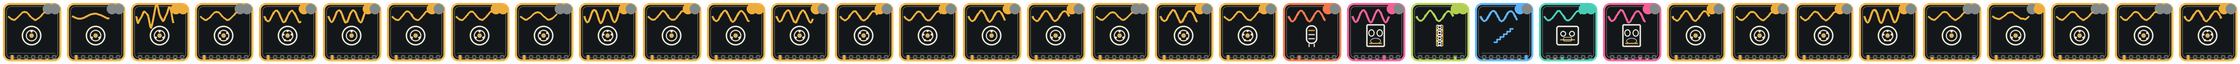
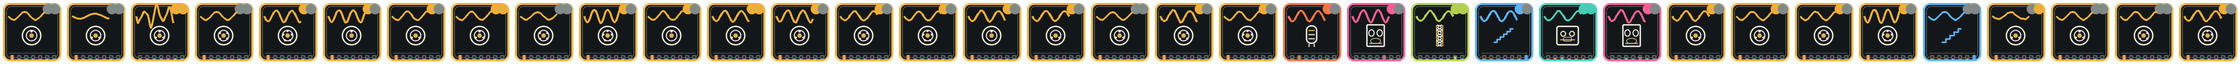
Explain every factory preset, and keep the guide honest
The preset bank grew to thirty-five with nothing but the preset box to say what
each one is for. docs/presets.md now names all of them by family - the two
references, bus and master glue, drums, vocals, bass, amps, worn media, and the
effects-forward set - with what each one sets, plus what a preset cannot carry
and how to add another.

check_presets.py reads that guide back: exactly one row per preset, so a new
preset cannot ship without an explanation. Broken Bits also stops stating the
J37 alongside the digital machine, which left it half tape and made its own
name a compromise.

Generated with Codebuff 🤖

diff --git a/tests/presets/check_presets.py b/tests/presets/check_presets.py
@@ -42,6 +42,8 @@ What it checks now, against the JSON rather than a C++ table:
     turn into the sentinel, and the debug audit would then fail on it)
   * every registered parameter is either set by some preset or listed in the
     C++ intentionallyNotPresettable set, and the two lists are compared
+  * the guide in docs/presets.md has exactly one row per preset, so a preset that
+    ships without an explanation fails here
   * the two extremes mean what their names say. MAXIMUM is the ceiling of every
     other preset - no preset drives a parameter past it, which is what makes it
     "everything turned up" - and MINIMUM is a passthrough: the machine lists at
@@ -229,6 +231,21 @@ for key, value in floor.items():
         problems.append("minimum.json sets \"%s\" to %s where a transparent signal needs "
                         "%s - it is a null test, not the bottom of the range"
                         % (key, value, expected))
+
+# ---------------------------------------------------------------------------
+# 5. The guide that explains them.
+# ---------------------------------------------------------------------------
+# A preset nobody can explain is a preset nobody uses, and the doc is the only
+# place that says what each one is FOR - the JSON can only say what it sets.
+GUIDE = os.path.join(ROOT, "docs", "presets.md")
+if not os.path.exists(GUIDE):
+    problems.append("docs/presets.md is missing; it explains what every factory preset is for")
+else:
+    guide = read(GUIDE)
+    for label in names:
+        if guide.count("| **%s** |" % label) != 1:
+            problems.append("docs/presets.md explains \"%s\" %d time(s); it needs exactly one row"
+                            % (label, guide.count("| **%s** |" % label)))
 
 # ---------------------------------------------------------------------------
 if problems:

diff --git a/docs/presets.md b/docs/presets.md
@@ -1,0 +1,122 @@
+# Factory presets
+
+Thirty-five presets ship in `Source/Presets/Factory/`, each one a complete machine state. A
+preset replaces the whole panel in a single undoable step: every control it does not name stays
+at its neutral value rather than at whatever the last session left there, because every file
+states all 139 preset parameters.
+
+They are intended as starting points, not as finished masters - each names the job it was
+written for and the stages it leans on, so you can hear what a page does before you touch it.
+
+| | What it is for |
+|---|---|
+| **Minimum** | A null test: the signal comes out as it went in. |
+| **Maximum** | Every parameter at the top of its range - a demo of the machine's ceiling, not a mix. |
+| **Default** | The starting state an empty instance exposes: J37 at 15 ips, modest drive, real hiss. |
+
+**Minimum** is the one preset that must not process. Every machine list sits on `Off`, every
+amount is at zero, the filters are open (20 Hz to 20 kHz) and switched off, the compressor is
+1:1 at 0 dB, and only the controls whose *centre* means "no change" keep a centre - a stereo
+width of 0 is mono, and a tone of 0 is a tilt. If it changes what you hear, it is a bug;
+`tests/presets/check_presets.py` compares it against that transparent table so the mistake
+cannot come back.
+
+**Maximum** is the opposite contract: it may never sit below another factory preset on any
+amount, so it is the ceiling of the bank rather than one more loud preset. It does leave
+BYPASS, DELTA and POLARITY alone - a switch is not an amount.
+
+## Bus, master and glue
+
+| Preset | What it is for | What it sets |
+|---|---|---|
+| **Gentle Warmth** | The first tape pass on a mix that is already right. | J37 at 15 ips, DRIVE 28 %, MIX 65 %, SUB-FUND 15 %, input -3 dB; hiss 15 %. |
+| **Bus Glue Tape** | Glue a drum bus or a full mix without hearing the tape. | Ampex 456, DRIVE 62 %, MIX 100 %, TONE 66 %, CHAR 62 %, 2x oversampling, a touch of WEAR and MECHANICS, transient ATK +0.1 at 35 %. |
+| **Clean Glue** | Transparent glue where the low end must stay tight. | Chrome at 30 ips, DRIVE 22 %, MIX 45 %, input -6 dB, both filters off. |
+| **Tight Bus** | Shorten a bus that smears; keep the front and lose the tail. | J37, MIX 55 %, transient SUS -0.45 with ATK +0.25 at 70 %, input +0.5 dB. |
+| **Wide Master** | Open the sides of a finished master. | J37, MIX 55 %, WIDTH 62 %, out HIGH +1.5 dB, SUB-FUND 12 %. |
+| **Master Bounce** | The sound of a mix bounced to tape and back. | J37 at 15 ips, 4x oversampling, DRIVE 40 %, DIST 30 %, ping-pong 30 %, transient 40 %. |
+| **Master Safety** | A master-bus setting that cannot hurt the programme. | Chrome at 30 ips, 4x oversampling, DRIVE 25 %, DIST 5 %, wow 5 %/flutter 7 %, no SUB-FUND. |
+| **Ferric Master** | The 456-era sheen on a finished master. | RTM SM911, DRIVE 34 %, out HIGH +0.5 dB, light WEAR. |
+| **Bright Air Tape** | Tape character on a piano or a mix that must stay open. | Studer A800 at 30 ips, DRIVE 55 %, TONE 68 %, in HIGH +2 dB, WIDTH 58 %, output -0.5 dB. |
+
+## Drums
+
+| Preset | What it is for | What it sets |
+|---|---|---|
+| **Drum Slam** | Drums through a hot machine. | Studer A800 at 30 ips, 4x oversampling, DRIVE 75 %, DIST 18 %, transient ATK +0.55 / SUS -0.3 at 80 %, input MID -2 dB and HIGH +1.5 dB. |
+| **Drum Room Warm** | Add size without reverb-mush. | Ampex 456 at 7.5 ips, DRIVE 55 %, REVERB 22 %, ping-pong 20 %, transient 70 % with SUS +0.25, out LOW +1.5 dB. |
+| **Transient Punch** | Make a close drum sound hit harder. | J37, MIX 65 %, transient ATK +0.6 / SUS -0.2 at 85 %, input HIGH +0.5 dB, hiss 10 %. |
+| **Soft Touch** | Take the click off a bright kit. | Transient ATK -0.55 / SUS +0.15 at 75 %, DRIVE 32 %, MIX 60 %, TONE 42 %, noise 2 %. |
+
+## Vocals
+
+| Preset | What it is for | What it sets |
+|---|---|---|
+| **Vocal Rail** | A vocal that sits forward without EQ surgery. | Vocal voicing, J37 at MIX 70 %, input EQ LOW -1.5 / MID +2 / HIGH +2.5 dB, transient ATK +0.35 / SUS -0.15 at 60 %. |
+| **Vocal Presence** | De-ess and lift a vocal in one step. | Studer A800, PRESENCE 70 %, out HIGH +2 dB, compressor -20 dB at 3.5:1 with 70 % MIX, de-esser 50 %, dynamic EQ 40 %. |
+
+## Bass
+
+| Preset | What it is for | What it sets |
+|---|---|---|
+| **Bass Weight** | Add the octave-below weight a DI bass lacks. | Studer A800 at 30 ips, 4x oversampling, SUB-FUND 65 %, in LOW +4 dB, out LOW +1 dB, DRIVE 48 %, SUS +0.2 at 40 %. |
+| **Bass Console** | A bass recorded through a console rather than a plugin chain. | Ampex 456, DRIVE 50 %, in HP 32 Hz, out LOW +2.5 dB, compressor -24 dB at 3:1 with 80 % MIX, SAG 30 %. |
+
+## Guitar: valves, amps and transformers
+
+These three blend saturation principles rather than running one machine: the SOURCE knobs
+share the stage, so the amp, the transformer and the cassette each contribute their own
+nonlinearity.
+
+| Preset | What it is for | What it sets |
+|---|---|---|
+| **British Valve** | The EL34 midrange push on a DI or a reamp. | EL34 valve 77 % + Marshall Plexi + cassette 11 %, DRIVE 55 %, DIST 30 %, in LOW -1.5 / MID -1 dB. |
+| **Plexi Bite** | A hard, bright rhythm guitar. | Marshall Plexi 93 %, 2x oversampling, DRIVE 72 %, DIST 38 %, CHAR 68 %, out HIGH +2 dB, filters off. |
+| **Iron Bloom** | Iron and a Vox-style chime on a clean part. | Cinemag transformer 68 % + Vox AC30 16 %, DRIVE 48 %, in LOW +3 dB, WIDTH 60 %, DIST 34 %. |
+
+## Worn media, radio and lo-fi
+
+| Preset | What it is for | What it sets |
+|---|---|---|
+| **Vintage Lo-Fi** | An old record, not a broken one. | J37 at 7.5 ips, wow 22 %/flutter 28 %, VINYL 25 %, DIST 22 %, WEAR 20 %/MECHANICS 18 %, hiss 45 %. |
+| **Wobbly Cassette** | A cassette that has been in a drawer. | Cassette voicing at 7.5 ips, wow 30 %/flutter 34 %, WEAR 28 %/MECHANICS 30 %, VINYL 30 %, hiss 50 %. |
+| **Lo-Fi Radio** | A small speaker in the next room. | Chrome at 7.5 ips, TONE 28 %, WIDTH 35 %, hiss 55 %, VINYL 45 %, DIST 30 %, input +4 dB and output -4 dB. |
+| **Shellac Radio** | A 78 through a valve set. | Shellac 78 print at VINYL 85 %, hiss 60 %, WIDTH 25 %, wow 30 %, EL34 drive 62 %, output -3 dB. |
+| **Dubplate Dub** | A dub plate with the delay and the wear that come with it. | Dubplate print at VINYL 70 %, delay 220 ms at 42 % feedback, REVERB 22 %, WEAR 22 %/MECHANICS 20 %. |
+| **12-bit Bounce** | The sampler that defined a decade. | 12-bit digital stage, no oversampling, DRIVE 52 %, DIST 15 %, delay 125 ms at 35 %, output -2 dB. |
+| **Saturated Crunch** | Deliberate overload. | Ampex 456 at 30 ips, 4x oversampling, DRIVE 85 %, DIST 35 %, input +3 dB, out HIGH +2 dB. |
+| **Mix Saturation** | Audible saturation that still holds a mix together. | Ampex 456, 4x oversampling, DRIVE 68 %, DIST 25 %, 2+3 track layout, WIDTH 40 %, out LOW -0.5 dB. |
+
+## Effects-forward
+
+| Preset | What it is for | What it sets |
+|---|---|---|
+| **Fuzz Stack** | A fuzz pedal in front of a driven machine. | 811 tape, DRIVE 85 %, CHAR 85 %, rack OVERDRIVE 50 % + FUZZ 90 % + WAVEFOLDER 35 %, SAG 25 %, compressor 4:1 at -22 dB with 55 % MIX. |
+| **Broken Bits** | Digital destruction with no tape in the path. | Sample-hold machine (tape `Off`), BITCRUSHER 85 %, RATE CRUSHER 70 %, RING MOD 25 %, LO-FI mode, output -2 dB. |
+| **Wide Chorus** | Width from modulation rather than from EQ. | CHORUS 75 % + PHASER 30 %, WIDTH 90 %, wow 40 %/flutter 35 %, MIX 85 %. |
+| **Dub Echo** | A dub delay built from the machine's own echo. | BBD delay 240 ms at 65 % feedback, ping-pong 100 %, REVERB 30 %, MIX 90 %, output -2 dB. |
+
+## What a preset does not carry
+
+A preset is a setting, so it carries settings only:
+
+- **BYPASS, DELTA, POLARITY and the transport** are listening states, not part of a sound, so
+  no preset moves them.
+- **A neural model, an impulse response and a vinyl print** are files the user loads. Presets
+  state the MIX for those stages - 0 % everywhere except Maximum, which is the ceiling demo -
+  but never the file itself, so loading a preset leaves whatever is loaded in place.
+- **The interface language and the panel's own click sounds** are not part of a sound either.
+
+## Adding one
+
+1. Write `Source/Presets/Factory/<name>.json` with a unique `name` and a value for every
+   preset parameter - copy `default.json` and change what the preset is about.
+2. Append the file to `FACTORY_PRESET_FILES` in `CMakeLists.txt`. Append, do not insert: the
+   preset index is what selects the artwork tile, so an insertion renames the picture on every
+   row below it.
+3. Regenerate the artwork and its catalog with `python Assets/generate_asset_pack.py`, then
+   update the width, columns and `tile_order` in `Assets/manifest.json` and the width in
+   `Source/GUI/PanelAssetSlots.h`.
+4. Run `python tests/presets/check_presets.py`. It checks the file against the shipping
+   parameter table, holds Minimum to the transparent table, holds Maximum to the ceiling, and
+   fails on a key no parameter answers to.

diff --git a/docs/library-candidates.md b/docs/library-candidates.md
@@ -105,7 +105,7 @@ answer is not re-derived next time.
 | **clap-juce-extensions** | `7adee3a1` | MIT | **Adopted.** The trigger was "a CLAP build is wanted" and it arrived. JUCE 9.0.5 still has no CLAP wrapper (`JUCE/modules/juce_audio_plugin_client` has AU, AAX, LV2, Standalone, VST3 and no CLAP), so `FORMATS CLAP` cannot be a list entry - the wrapper adds a `first_CLAP` MODULE target over the same shared code instead. It reuses the plugin's JUCE parameter tree, so the "second wrapper needs a parameter mapping" cost this row predicted did not materialise: one function call in `CMakeLists.txt` plus the notices. CLAP is native in Bitwig and Reaper (both also load VST3), and upstream's CI covers JUCE 9 |
 | **SLEEF** | `3.9.0` | BSL-1.0 | **Trigger: the audio-thread profile still shows `j37Tanh` (or the metering `exp`) as hot after the xsimd path.** SLEEF is a vectorised libm with a `tanh_u10` that can beat xsimd's; the existing 2.4 ns measurement is the bar it has to clear, and `tests/dsp/run_bench.sh` is where it would be measured. Do not add a second maths library on the strength of its benchmark page |
 | **r8brain-free-src** | `7.6` | MIT | **Trigger: a measured conversion artefact.** The oversampled stages use `juce::dsp::Oversampling`, `IrStage` resamples impulses through JUCE, and `NoiseLoader` converts a print in `prepare`. A high-quality SRC would earn its place only if one of those is shown to be the cause of an audible problem |
-| **chowdsp_plugin_state / presets_v2** | `v2.4.0` | BSD | **Trigger: the state schema needs a migration the hand-written code cannot express.** Today `tests/state` and `check_presets.py` pin the format and the 29 factory presets; replacing that with a framework trades tested code for a dependency. `chowdsp_wdf` (BSD-3) is the other side of the same coin: it is the right tool only if a circuit-level model replaces a curve, which is an audio decision, not a library one |
+| **chowdsp_plugin_state / presets_v2** | `v2.4.0` | BSD | **Trigger: the state schema needs a migration the hand-written code cannot express.** Today `tests/state` and `check_presets.py` pin the format and the 35 factory presets; replacing that with a framework trades tested code for a dependency. `chowdsp_wdf` (BSD-3) is the other side of the same coin: it is the right tool only if a circuit-level model replaces a curve, which is an audio decision, not a library one |
 | **moodycamel::ConcurrentQueue** | no release tags; pin a commit | BSD-2 (simplified) | **Trigger: telemetry gains a second producer.** `readerwriterqueue` is SPSC by design and is the correct shape for one audio thread feeding one editor |
 | **magic_enum** | `0.9.8` | MIT | **Trigger: none foreseen.** Enum-to-string is already product copy in translation tables, checked by `check_translations.py` and `check_parameters.py`; reflection would compile slowly to produce words this project wants to author by hand |
 | **simdjson** | `5.0.5` | Apache-2.0 OR MIT | **Trigger: model load time becomes a complaint.** Parsing happens once, off the audio thread, in a loader that already hands the stage an immutable model; `nlohmann/json` is shared with RTNeural and NAM Core, and a second parser would mean a second JSON type at that ABI boundary |

diff --git a/README.md b/README.md
@@ -18,6 +18,7 @@
 | --- | --- |
 | know what the plugin does and how it sounds | this file - start at [Overview](#overview) |
 | build it | [Getting the source](#getting-the-source) and [Build](#build) |
+| hear what each factory preset is for | [docs/presets.md](docs/presets.md) - all thirty-five, what each one sets and what a preset cannot carry |
 | change the code and know what will catch you | [docs/architecture.md](docs/architecture.md) and [tests/README.md](tests/README.md) |
 | follow one sample through the plugin | [docs/signal-path.md](docs/signal-path.md) - every stage, in order, with its rate domain and its controls |
 | see what a proposed roadmap would actually cost | [docs/requested-roadmap-status.md](docs/requested-roadmap-status.md) - each item vs. what the tree already does |
@@ -1060,11 +1061,15 @@ selects an already-prepared slot and allocates nothing on the audio thread.
 
 ## Presets, A/B compare and undo
 
-Twenty-nine factory presets cover the machine's range from gentle bus warmth to slammed drum
+Thirty-five factory presets cover the machine's range from gentle bus warmth to slammed drum
 tape, including vocal, bass and mastering-safety starting points. Three of them - **Transient
 Punch**, **Soft Touch** and **Tight Bus** - are built around the transient shaper on the DYN
 tab, so the two directions of both ATK and SUS are demonstrated by a preset rather than only
-by a tooltip. A preset replaces the whole machine state in a single undoable transaction -
+by a tooltip. **Minimum** is the null test - every machine Off, every amount at zero, the
+filters open - and **Maximum** is the ceiling of the bank, every parameter at the top of its
+range. [docs/presets.md](docs/presets.md) names each of the thirty-five and what it sets.
+
+A preset replaces the whole machine state in a single undoable transaction -
 Ctrl+Z brings back exactly what was on screen before.
 
 A preset **does not** carry a neural model. A model is a file the user loads, not a setting,
@@ -1967,7 +1972,7 @@ JUCE/            JUCE 9.0.5, pinned as a git submodule
 ThirdParty/      the vendored libraries, at the versions CMake would otherwise fetch
 .github/         CI: the harnesses, and builds for Windows, macOS, Linux and Android
 tests/           what checks what, and what it does not - see tests/README.md
-docs/            architecture, the code analysis, the improvement plan, saturation notes
+docs/            architecture, the signal path, the preset guide, the code analysis, saturation notes
 SPLITTING-BIG-FILES.md   how far the long files can be split, and what it costs
 THIRD_PARTY_NOTICES.md   every component the build uses, and its licence
 ```

diff --git a/docs/plugin-improvement-plan.md b/docs/plugin-improvement-plan.md
@@ -321,7 +321,7 @@ each one says what it would be built out of.
 | **Mid/side drive and glue** | process the side channel with its own DRIVE and glue amount | the engine already has a stereo width stage and a stereo tape offset; M/S is the natural next stereo control and it is what the bus use case asks for |
 | **Print / commit to the DAW** | render the machine's output into the host's audio in one action | every parameter is automatable and every stage is deterministic; a commit function is mostly bookkeeping, and it is what mastering users actually reach for |
 | **Loudness-matched A/B** | match the level between the A and B slots before comparing | the plugin has A/B slots and a real loudness meter; unmatched A/B is the oldest mistake in audio |
-| **Preset browser** | tag, search and preview the 29 factory presets and the user's own | the preset table is JSON and already consistent with the parameter table, so this is UI over data that exists |
+| **Preset browser** | tag, search and preview the 35 factory presets and the user's own | the preset table is JSON and already consistent with the parameter table, so this is UI over data that exists |
 | **Per-band drive** | three-band saturation on the existing three-band EQ split | `ThreeBandEq.h` already splits the signal; the shaper is per-sample and stateless |
 | **Spectrum / harmonic view** | draw the harmonic analyser as a curve instead of a number | `HarmonicAnalyser.h` measures the shaper's own input and output today |
 | **Tape-stop as automation** | make the transport keys automatable parameters | `TransportRig` is deterministic and driven frame by frame; the host-facing half is exposing the keys |
